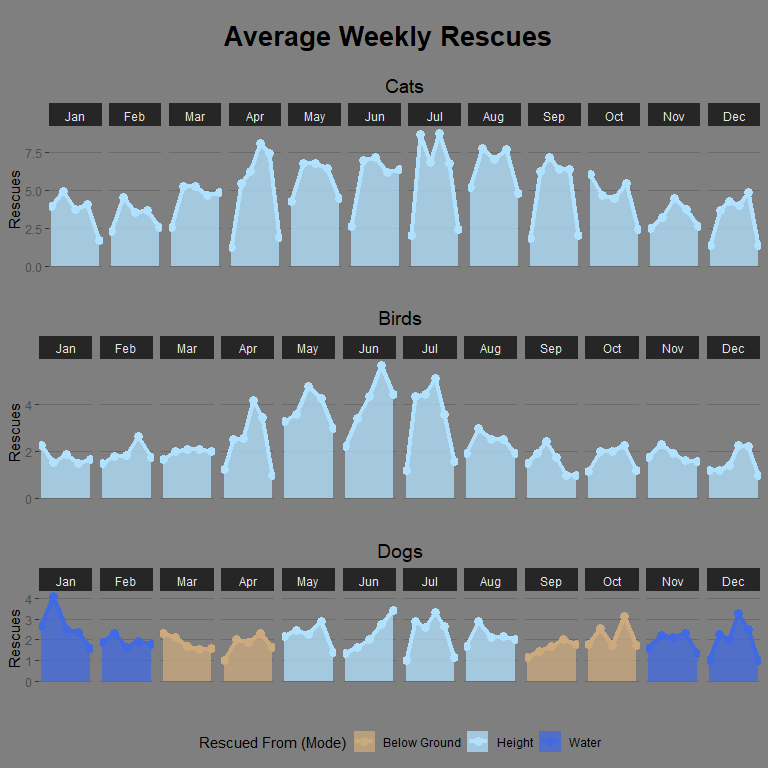
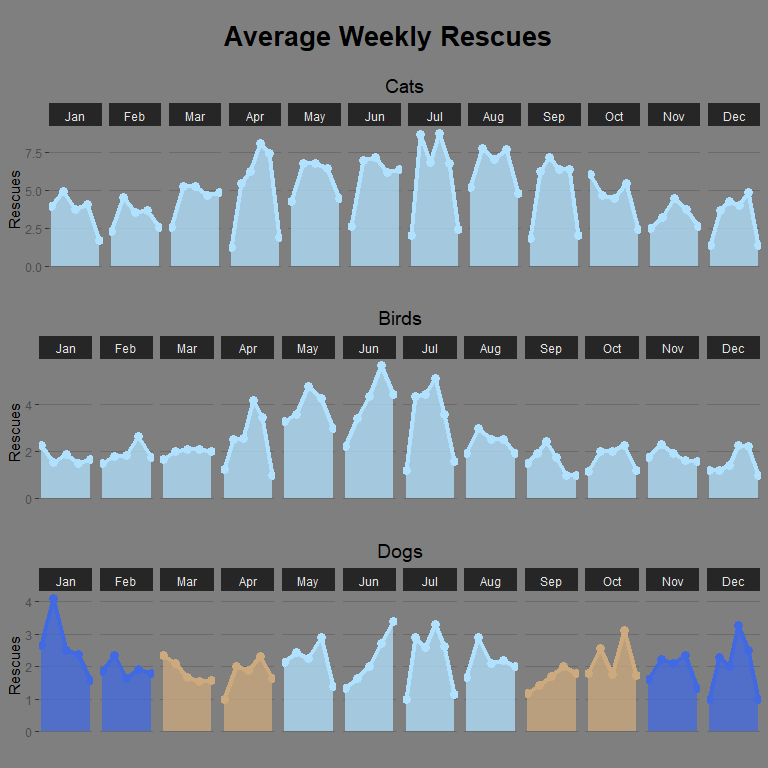
finalize 20210629 - animal rescues
added a source line to the final plot.

Changed region(s): [[0.0, 0.7812, 1.0, 1.0]]

diff --git a/20210629 - Animal Rescues/20210629_animal_rescue.md b/20210629 - Animal Rescues/20210629_animal_rescue.md
@@ -6,8 +6,7 @@ Nick Cruickshank
   - [Introduction](#introduction)
   - [Exploratory Data Analysis](#exploratory-data-analysis)
       - [Notes](#notes)
-  - [Data Visualization Projects](#data-visualization-projects)
-      - [Choropleth of animal rescues](#choropleth-of-animal-rescues)
+  - [Data Visualization Project](#data-visualization-project)
       - [Timeline of animal rescue](#timeline-of-animal-rescue)
           - [Average Year of Animal
             Rescues](#average-year-of-animal-rescues)
@@ -15,14 +14,7 @@ Nick Cruickshank
             Rescues](#average-day-of-animal-rescues)
           - [Paste Years and Hours
             Together](#paste-years-and-hours-together)
-      - [What propery types do most rescues occur
-        at?](#what-propery-types-do-most-rescues-occur-at)
-      - [Where do animals get rescued from the
-        most?](#where-do-animals-get-rescued-from-the-most)
-      - [What animals cost the most to
-        rescue?](#what-animals-cost-the-most-to-rescue)
-      - [What kind of properties do animals most routinely get trapped
-        in?](#what-kind-of-properties-do-animals-most-routinely-get-trapped-in)
+          - [Top Level Graphics](#top-level-graphics)
 
 ``` r
 # libraries
@@ -33,12 +25,15 @@ library(lubridate)
 library(patchwork)
 library(readr)
 library(tidyverse)
+library(ggtext)
 ```
 
 ``` r
 # data
 animal_rescues <- readr::read_csv('https://raw.githubusercontent.com/rfordatascience/tidytuesday/master/data/2021/2021-06-29/animal_rescues.csv')
 ```
+
+![image](https://www.desktopbackground.org/p/2014/04/26/753179_friends-cats-birds-dogs-animals-rabbit-hd-wallpapers_1772x1260_h.jpg)
 
 # Introduction
 
@@ -163,9 +158,7 @@ count(ar, originof_call) %>%
 I don’t think there is much insight to be gleaned from whether the call
 was made from a landline or mobile device.
 
-# Data Visualization Projects
-
-## Choropleth of animal rescues
+# Data Visualization Project
 
 ## Timeline of animal rescue
 
@@ -198,28 +191,6 @@ ar_monthly_species_mode <- ar %>%
   group_by(month, animal_group_parent) %>%
   dplyr::summarise(mode_service = Mode(service_category))
 
-ar_monthly_species_mode %>%
-  filter(animal_group_parent == "dog")
-```
-
-    ## # A tibble: 12 x 3
-    ## # Groups:   month [12]
-    ##    month animal_group_parent mode_service
-    ##    <chr> <chr>               <chr>       
-    ##  1 Apr   dog                 Below Ground
-    ##  2 Aug   dog                 Height      
-    ##  3 Dec   dog                 Water       
-    ##  4 Feb   dog                 Water       
-    ##  5 Jan   dog                 Water       
-    ##  6 Jul   dog                 Height      
-    ##  7 Jun   dog                 Height      
-    ##  8 Mar   dog                 Below Ground
-    ##  9 May   dog                 Height      
-    ## 10 Nov   dog                 Water       
-    ## 11 Oct   dog                 Below Ground
-    ## 12 Sep   dog                 Below Ground
-
-``` r
 month_levels <- c("Jan", "Feb", "Mar", "Apr",
                   "May", "Jun", "Jul", "Aug",
                   "Sep", "Oct", "Nov", "Dec")
@@ -273,30 +244,14 @@ plot_animal_rescue_year_by_species <- function(df = ar, species) {
       axis.ticks.x = element_blank(),
       panel.grid.minor.y = element_blank(),
       axis.text.x = element_blank(),
-      legend.position = ifelse(species == "dog", "bottom", "none"),
-      #legend.position = "bottom",
+      #legend.position = ifelse(species == "dog", "bottom", "none"),
+      legend.position = "none",
       legend.background = element_rect(fill = "grey50"),
       plot.title = element_text(hjust = 0.5, size = 14)
     )
   
   plot
 }
-
-## PATCHWORK Legend Position "Bottom" is bugged
-# plot_animal_rescue_year_by_species(ar, "cat") + 
-#   plot_animal_rescue_year_by_species(ar, "bird") + 
-#   plot_animal_rescue_year_by_species(ar, "dog") +
-#   plot_annotation(
-#     title = glue("Average Weekly Animal Rescues in London over the past {df_duration} years"),
-#     theme = theme(
-#       plot.background = element_rect(fill = "grey50"),
-#       plot.title = element_text(size = 18)
-#     )
-#   ) +
-#   plot_layout(
-#     ncol = 1,
-#     guides = "collect"
-#   ) &  theme(legend.direction = "vertical")
 ```
 
 ``` r
@@ -364,8 +319,8 @@ plot_animal_rescues_hourly_by_species <- function(df = ar, species) {
     facet_wrap(~ hour_of_day, scales = "free_x", ncol = 24) + 
     theme_dark() + 
     theme(
-      legend.position = ifelse(species == "dog", "bottom", "none"),
-      #legend.position =  "bottom",
+      #legend.position = ifelse(species == "dog", "bottom", "none"),
+      legend.position =  "none",
       legend.background = element_rect(fill = "grey50"),
       plot.background = element_rect(fill = "grey50", color = "grey50"),
       panel.grid.minor.x = element_blank(),
@@ -402,37 +357,152 @@ hour_grid
 ### Paste Years and Hours Together
 
 ``` r
-plot_grid(year_grid, hour_grid)
+years_hours_plots <- plot_grid(year_grid, hour_grid)
+```
+
+### Top Level Graphics
+
+#### Most represented species
+
+``` r
+species_bar <- ar %>%
+  mutate(
+    animal_group_parent = ifelse(animal_group_parent %in% top3_species_list, animal_group_parent, "Other"),
+    top3 = ifelse(animal_group_parent %in% top3_species_list, "Top 3", "Other")
+  ) %>%
+  count(animal_group_parent, top3) %>%
+  arrange(desc(n)) %>%
+  ggplot(aes(fct_reorder(animal_group_parent, n), n)) + 
+  geom_bar(aes(fill = top3), stat = "identity", color = "black", alpha = 0.5, size = 2) + 
+  scale_fill_manual(values = c(
+    "Other" = "gray10",
+    "Top 3" = "gray90"
+  )) + 
+  geom_text(aes(y = 50, label = paste0(str_to_title(animal_group_parent), "s")), hjust = "left", fontface = "bold") +
+  coord_flip() + 
+  labs(
+    title = "Count by Species"
+  ) + 
+  theme_void() + 
+  theme(
+    plot.background = element_rect(fill = "gray50", color = "gray50"),
+    plot.title = element_text(hjust = 0.5, size = 14),
+    panel.background = element_rect(fill = "gray50"),
+    legend.position = "none"
+  )
+```
+
+#### Most represented service types
+
+``` r
+service_bar <- ar %>%
+  count(service_category) %>%
+  mutate(
+    service_category = ifelse(str_detect(service_category, "Other"), "Other", service_category),
+    relevant_services = ifelse(service_category == "Other", "Other", "Relevant")
+  ) %>%
+  arrange(desc(n)) %>%
+  ggplot(aes(fct_reorder(service_category, n), n)) + 
+  geom_bar(aes(fill = service_category, color = service_category), size = 2, stat = "identity", alpha = 0.5) + 
+  scale_fill_manual(values = c(
+      "Below Ground"= "burlywood3",
+      "Height" = "lightskyblue1",
+      "Water" = "royalblue",
+      "Other" = "gray10"
+    )) + 
+    scale_color_manual(values = c(
+      "Below Ground"= "burlywood3",
+      "Height" = "lightskyblue1",
+      "Water" = "royalblue",
+      "Other" = "gray10"
+    )) + 
+  geom_text(aes(y = 50, label = service_category), hjust = "left", fontface = "bold") + 
+  coord_flip() + 
+  labs(
+    title = "Count by Service Type"
+  ) +
+  theme_void() + 
+  theme(
+    plot.background = element_rect(fill = "gray50", color = "gray50"),
+    plot.title = element_text(hjust = 0.5, size = 14),
+    legend.position = "none"
+  )
+```
+
+#### Pie service type by species
+
+``` r
+ar_pie <- ar %>%
+  filter(animal_group_parent %in% top3_species_list) %>%
+  count(animal_group_parent, service_category) %>%
+  mutate(
+    service_category = ifelse(str_detect(service_category, "Other"), "Other", service_category)
+  ) 
+
+plot_service_type_pie <- function(df = ar_pie, species) {
+  pie_title <- paste0(str_to_title(species), "s")
+  
+  plot <- df %>%
+    filter(animal_group_parent == species) %>%
+    arrange(desc(service_category)) %>%
+    mutate(
+      prop = n / sum(filter(ar_pie, animal_group_parent == species)$n) * 100,
+      ypos = cumsum(prop) - 0.5*prop,
+      perc = paste0(round(prop, 2), "%")
+    ) %>%
+    ggplot(aes(x = "", y = prop, fill = service_category, color = service_category)) + 
+    geom_bar(width = 1, stat = "identity", alpha = 0.4, size = 2) + 
+    coord_polar("y", start = 0) + 
+    scale_fill_manual(values = c(
+      "Below Ground"= "burlywood3",
+      "Height" = "lightskyblue1",
+      "Water" = "royalblue",
+      "Other" = "gray10"
+    )) + 
+    scale_color_manual(values = c(
+      "Below Ground"= "burlywood3",
+      "Height" = "lightskyblue1",
+      "Water" = "royalblue",
+      "Other" = "gray10"
+    )) + 
+    #geom_text(aes(y = ypos, label = paste0(service_category, "\n", perc)), fontface = "bold") + 
+    labs(
+      title = pie_title
+    ) + 
+    theme_void() + 
+    theme(
+      plot.background = element_rect(fill = "grey50", color = "gray50"),
+      legend.position = "none",
+      plot.title = element_text(hjust = 0.5, size = 14)
+    )
+  
+  plot
+}
+
+cat_pie <- plot_service_type_pie(ar_pie, "cat")
+bird_pie <- plot_service_type_pie(ar_pie, "bird") 
+dog_pie <- plot_service_type_pie(ar_pie, "dog")
+
+pies <- plot_grid(cat_pie, bird_pie, dog_pie, ncol = 3)
+```
+
+#### Grid the top layer
+
+``` r
+# plot_grid(species_bar, service_bar, cat_pie, bird_pie, dog_pie,
+#           ncol = 5, align = "h", axis = "bt")
+(species_bar + service_bar + cat_pie + bird_pie + dog_pie +
+  plot_layout(ncol = 5)) /
+  years_hours_plots + 
+  plot_layout(heights = c(3,13)) + 
+  plot_annotation(
+    title = glue("Animal Rescues in London in the past {df_duration} years"),
+    caption = "Source: london.gov (https://data.london.gov.uk/dataset/animal-rescue-incidents-attended-by-lfb)",
+    theme = theme(
+      plot.title = element_text(size = 36, hjust = 0.5),
+      plot.background = element_rect(fill = "gray50")
+    )
+  )
 ```
 
 ![](20210629_animal_rescue_files/figure-gfm/London%20Animal%20Rescues-1.png)<!-- -->
-
-## What propery types do most rescues occur at?
-
-``` r
-count(ar, property_type) %>%
-  arrange(desc(n))
-```
-
-    ## # A tibble: 179 x 2
-    ##    property_type                                         n
-    ##    <chr>                                             <int>
-    ##  1 House - single occupancy                           1867
-    ##  2 Purpose Built Flats/Maisonettes - Up to 3 storeys   599
-    ##  3 Purpose Built Flats/Maisonettes - 4 to 9 storeys    587
-    ##  4 Tree scrub                                          321
-    ##  5 Animal harm outdoors                                280
-    ##  6 Converted Flat/Maisonettes - 3 or more storeys      254
-    ##  7 Car                                                 241
-    ##  8 Domestic garden (vegetation not equipment)          221
-    ##  9 Converted Flat/Maisonette - Up to 2 storeys         207
-    ## 10 Park                                                180
-    ## # ... with 169 more rows
-
-## Where do animals get rescued from the most?
-
-## What animals cost the most to rescue?
-
-Normalize by hours spent?
-
-## What kind of properties do animals most routinely get trapped in?
